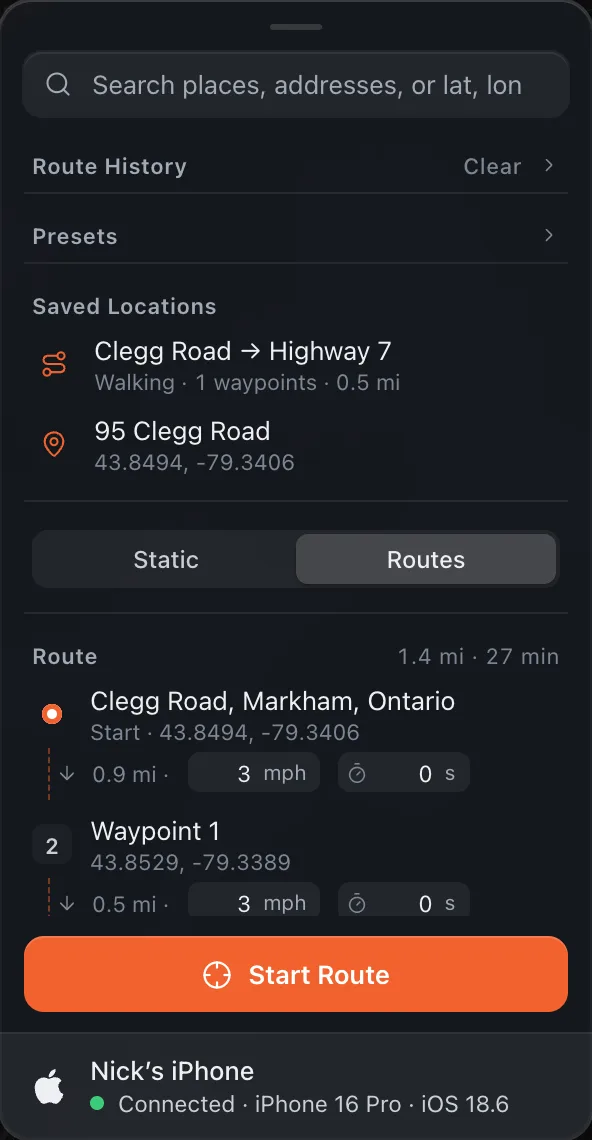
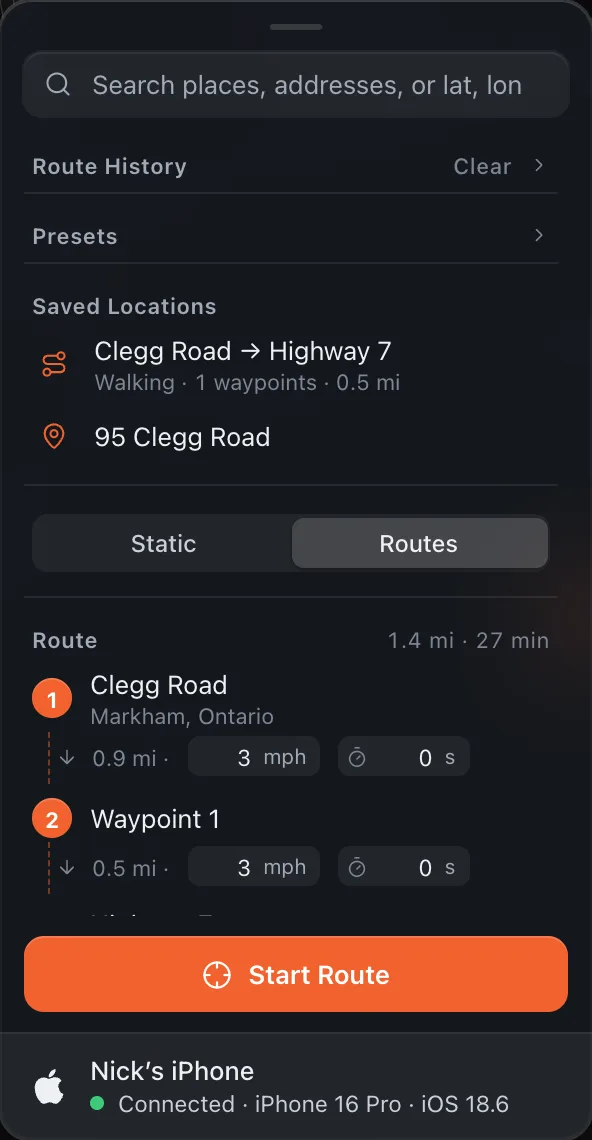
Docs: Follow roads, Stop and Continue, live route card, trust step for Alibi Mobile; fresh screenshots

diff --git a/site/docs/routes-mode/index.html b/site/docs/routes-mode/index.html
@@ -49,29 +49,29 @@
 <h2 id="switching-to-routes-mode">Switching to Routes Mode</h2>
 <p>Click <b>Routes</b> in the mode toggle in the panel to switch from Static mode. You cannot switch modes while a route is running or while your location is changed; press <b>Reset</b> first.</p>
 <h2 id="setting-up-a-route">Setting Up a Route</h2>
-<p>Place the start and end by clicking the map or by searching in the bar at the top. The first click is the <b>Start</b>, the second is the <b>End</b>. Any pin can be dragged afterwards.</p>
+<p>Place the start and end by clicking the map or by searching in the bar at the top. The first click is stop <b>1</b>, the second stop <b>2</b>, and the list shows each stop’s street with the town beneath it. Any pin can be dragged afterwards, and the rows in the panel drag up and down to change the order.</p>
 <img class="shot" src="../../img/docs/routes-setup.webp" alt="A route with a start, a waypoint and an end, and the leg speeds beneath each stop" loading="lazy">
 <h2 id="drawing-a-route">Drawing a Route</h2>
-<p>Press <b>Draw</b> under the stops. The rest of the app fades back and a small bar at the top says what to do: draw on the map with the mouse held down, lift to end a stroke and draw more, <kbd>⌫</kbd> undoes the last stroke, and <kbd>Esc</kbd> (or Done) finishes. With <b>Path</b> set to Streets the drawing is snapped to the roads, so what you drew is what the drive looks like in Find My. With Straight the phone flies along your line exactly. Clear removes the drawing.</p>
+<p>Press <b>Draw</b> under the stops. The rest of the app fades back and a small bar at the top says what to do: draw on the map with the mouse held down, lift to end a stroke and draw more, <kbd>⌫</kbd> undoes the last stroke, and <kbd>Esc</kbd> (or Done) finishes. With <b>Follow roads</b> on the drawing is fitted to the roads, so what you drew is what the drive looks like in Find My. With it off the phone flies along your line exactly. Clear removes the drawing.</p>
 <h2 id="choosing-a-travel-mode">Choosing a Travel Mode</h2>
 <p>Use the <b>Travel Mode</b> control in the route panel to choose how your location moves along the route:</p>
 <ul><li><b>Walk</b>, the slowest</li><li><b>Cycle</b>, medium</li><li><b>Drive</b>, a steady car</li><li><b>Auto</b>: each road at its posted speed, a little over the limit on freeways, with lane changes on fast roads. Nothing is perfectly constant unless you type a speed yourself.</li></ul>
 <p><b>Stop signs</b>, under More options, pauses a moment at intersections: Off, All, or Half (every other one). Settings › Movement › <b>Movement Realism</b> keeps the pace wandering slightly the way a real driver's does.</p>
-<p><b>Path</b> chooses between <b>Streets</b>, which follows the roads (the line on the map updates to the real route as soon as the end is placed), and <b>Straight</b>, which flies directly from stop to stop.</p>
-<p>The <b>Speed</b> row shows the exact figure, in mph or km/h depending on your region, and you can type any number. Each leg between two stops also has its own speed and an optional pause in seconds, shown under the stop, so a route can walk one part and drive another.</p>
+<p>The <b>Follow roads</b> switch keeps the route on real streets (the line on the map updates to the road route as soon as the end is placed). Turn it off to fly directly from stop to stop; Alibi warns before starting that this looks unnatural.</p>
+<p>The <b>Speed</b> row shows the exact figure, in mph or km/h depending on your region, and you can type any number. Each leg between two stops also has its own speed and an optional pause in seconds, shown under the stop, so a route can walk one part and drive another. In Auto the per-leg speed is hidden, since each road sets its own.</p>
 <h2 id="adding-waypoints">Adding Waypoints</h2>
 <p>To customise the path the route takes, add up to 10 waypoints. Click the map again after placing the end, or press <b>Add waypoint</b>, which drops a pin halfway along the last leg for you to drag into place. Waypoints are removed with the × on their row or on the pin’s tooltip.</p>
 <h2 id="previewing-the-route">Previewing the Route</h2>
 <p>Click <b>Preview Route</b> to calculate the road route (through OSRM) and draw it on the map. A pale marker runs the whole route in a few seconds so you can check it before the phone moves.</p>
 <img class="shot" src="../../img/docs/routes-preview.webp" alt="Previewing a route: the road path drawn on the map and the ghost marker running it" loading="lazy">
 <h2 id="starting-the-route">Starting the Route</h2>
-<p>Click <b>Start Route</b>. The iPhone’s location moves along the route in real time at the selected speed. The pill reads <b>Moving</b> with a timer, the route line animates, and the active leg is highlighted in the panel. <b>Jump</b> skips to the destination.</p>
+<p>Click <b>Start Route</b>. The iPhone’s location moves along the route in real time at the selected speed. The pill reads <b>Moving</b> with a timer, the route line animates, and the panel shows the current leg, the next stop, the distance and time left and a progress bar. <b>Save</b> in the panel keeps the running route in Saved Locations. <b>Jump to end</b>, at the bottom of the panel, skips to the destination after a confirmation, since a jump never looks real.</p>
 <img class="shot" src="../../img/docs/routes-moving.webp" alt="A route in progress: Moving pill, animated route line and the live marker on the road" loading="lazy">
 <h2 id="stay-at-end">Stay at End</h2>
 <p>Leave <b>Stay at end</b> on before starting to keep your location at the destination when the route finishes. Turn it off and your location resets to real GPS when the route ends. <b>Loop</b> repeats the route until you stop it; turning on one of the two turns the other off, since a looping route never reaches its end.</p>
-<h2 id="stopping">Stop and Reset</h2>
-<p>While a route is running, <b>Stop</b> ends the route right where the phone is and holds that spot. <b>Reset</b> stops the route and puts real GPS back. Picking a new place while a route runs offers <b>Jump here</b>, which stops the route and holds that spot instead.</p>
-<img class="shot" src="../../img/docs/routes-stopped.webp" alt="A route stopped mid-way, holding position" loading="lazy">
+<h2 id="stopping">Stop, Continue and Reset</h2>
+<p>While a route is running, <b>Stop</b> pauses it right where the phone is and holds that spot; the rest of the route waits, and <b>Continue</b> picks it up again from the same point. <b>Reset</b> drops the route and puts real GPS back. Picking a new place while a route runs offers <b>Jump here</b>, which stops the route and holds that spot instead.</p>
+<img class="shot" src="../../img/docs/routes-stopped.webp" alt="A route stopped mid-way, holding position, with Continue next to Reset" loading="lazy">
 <div class="callout info"><b>Short routes look slow</b>Walking is 3 mph, so a 200 m route takes over two minutes. Alibi notes this under the route so a slow start is not mistaken for a stall.</div>
 
 <div class="pager"><a class="prev" href="../static-mode/"><small>Previous</small>Static Mode</a><a class="next" href="../bookmarks/"><small>Next</small>Saved Locations</a></div>

diff --git a/site/docs/alibi-mobile/index.html b/site/docs/alibi-mobile/index.html
@@ -60,6 +60,7 @@
 <li><p>Click <b>Install on iPhone</b> at the bottom of the map.</p></li>
 <li><p><b>Sign in with an Apple ID.</b> Apple requires apps on an iPhone to be signed by an Apple ID; any account works, including a spare one. The sign-in goes straight to Apple, and Alibi keeps only the email if you tick <b>Remember my Apple ID</b>. When Apple asks for a two-factor code, type it in the box that appears.</p></li>
 <li><p>Click <b>Install Alibi Mobile</b>. Alibi signs the app, installs it over the cable and hands it the pairing it needs. It takes about a minute; keep the phone unlocked.</p></li>
+<li><p><b>Trust the developer.</b> An app signed with a free Apple ID will not open until the phone has checked the signature with Apple: on the iPhone go to Settings › General › VPN &amp; Device Management, tap your Apple ID under Developer App, and tap Trust. The phone needs internet for this. If Alibi Mobile says it cannot verify its integrity, this is the step that was missed.</p></li>
 <li><p>On the iPhone, open Alibi Mobile and allow the VPN profile it asks for. That profile is how the app reaches the location service on the phone; it carries no traffic anywhere else.</p></li>
 </ol>
 <div class="callout"><b>Seven days</b>Apps signed with a free Apple ID expire after seven days. Plug the phone in once a week and Alibi re-signs it; <b>Re-send pairing file</b> in the same dialog fixes a phone that has lost its pairing.</div>
